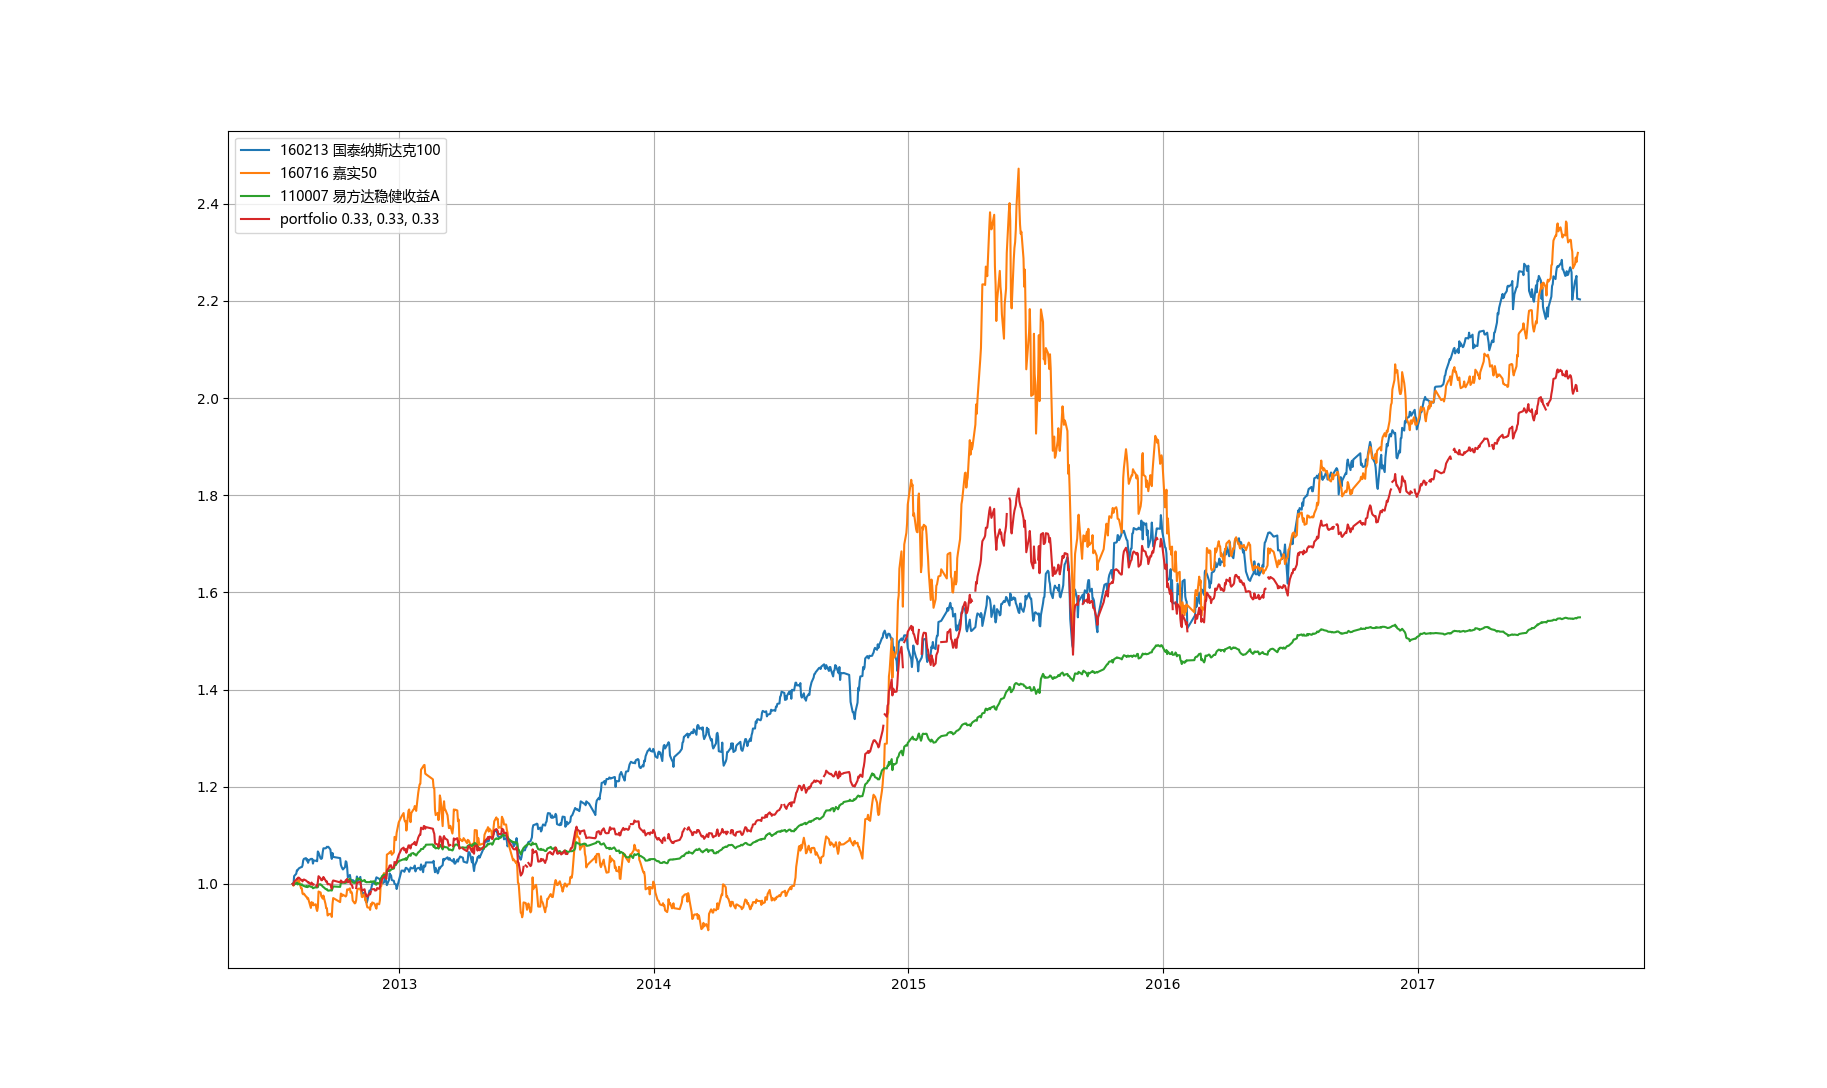
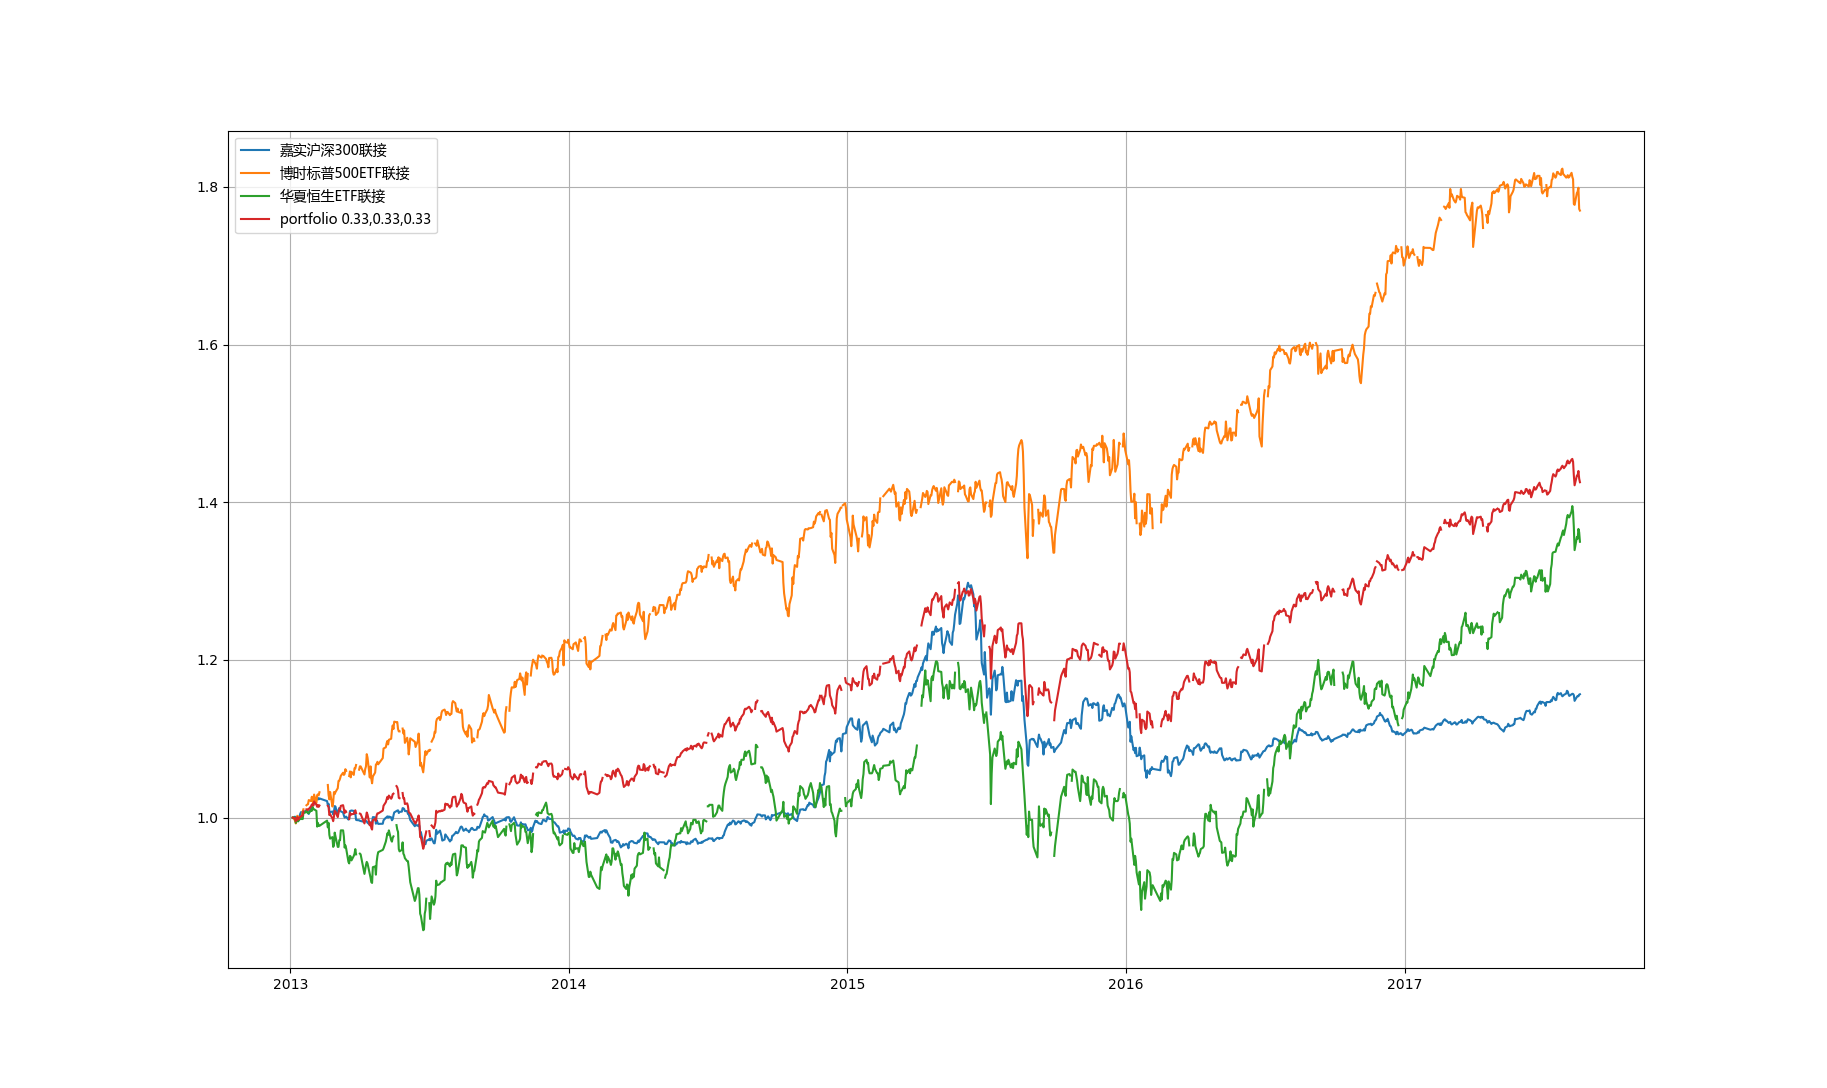
add support for command line arguments

diff --git a/funddata.py b/funddata.py
@@ -12,54 +12,70 @@ import numpy as np
 import pandas as pd
 import matplotlib.pyplot as plt
 import matplotlib.font_manager as fm
+import sys
 
-# 开始日期
-startdate = '2012-08-01'
-# 结束日期
-enddate = '2017-08-31'
-# 代码列表
-codelist = ['160213', '160716', '110007']
-# 组合权重
-weightlist = [1/3, 1/3, 1/3]
+if __name__ == "__main__":
 
-urls=['http://data.funds.hexun.com/outxml/detail/openfundnetvalue.aspx?fundcode='
-      +fundcode+'&startdate='+startdate+'&enddate='+enddate
-      for fundcode in codelist]
-namelist = []
-timeserieslist = []
-
-for url in urls:
-    req = Request(url, headers={'User-Agent': 'Mozilla/5.0'})
-    data = urlopen(req).read()
-    tree = ET.fromstring(data)
-    datelist = []
-    valuelist = []
+    startdate = '2013-01-01'
+    enddate = '2017-08-18'
+    codelist = ['160706', '050025', '000071']
     
-    for child in tree:
-        if child.tag == 'Data':
-            datelist.append(datetime.strptime(child.find('fld_enddate').text, '%Y-%m-%d'))
-            valuelist.append(float(child.find('fld_netvalue').text))
+    # read command line arguments
+    if len(sys.argv) > 1:
+        startdate = sys.argv[1]   
+    if len(sys.argv) > 2:
+        enddate = sys.argv[2]
+    if len(sys.argv) > 3:
+        del codelist[:]
+        codelist = sys.argv[3:]
+
+    # portfolio weights
+    weightlist = [1/len(codelist) for i in codelist]
     
-    valuelist = [i/valuelist[-1] for i in reversed(valuelist)]
-    datelist = list(reversed(datelist))
-    codename = tree.find('fundcode').text + ' ' + tree.find('fundname').text
-    namelist.append(codename)
-    print(codename, "{:.2f}".format(valuelist[-1]))
-    x = np.array(datelist)
-    y = np.array(valuelist)
-    ts = pd.Series(y, index=x, name=codename)
-    timeserieslist.append(ts)
-    plt.plot(x, y)
-
-df = pd.concat(timeserieslist, axis=1)
-for i in range(len(weightlist)):
-    df[namelist[i]] = df[namelist[i]] * weightlist[i]
-
-portfolioname = 'portfolio'
-df[portfolioname] = df.sum(axis=1, skipna=False)
-plt.plot(df[portfolioname])
-myfont = fm.FontProperties(fname='C:/Windows/Fonts/msyh.ttc')
-namelist.append(portfolioname+' '+', '.join(["{:.2f}".format(i) for i in weightlist]))
-plt.legend(namelist, prop=myfont)
-plt.grid()
-plt.show()
+    print(startdate, enddate, codelist)
+    
+    urls = ['http://data.funds.hexun.com/outxml/detail/openfundnetvalue.aspx?fundcode='
+          +fundcode+'&startdate='+startdate+'&enddate='+enddate
+          for fundcode in codelist]
+    namelist = []
+    timeserieslist = []
+    
+    for url in urls:
+        req = Request(url, headers={'User-Agent': 'Mozilla/5.0'})
+        data = urlopen(req).read()
+        tree = ET.fromstring(data)
+        datelist = []
+        valuelist = []
+        
+        for child in tree:
+            if child.tag == 'Data':
+                datelist.append(datetime.strptime(child.find('fld_enddate').text, '%Y-%m-%d'))
+                valuelist.append(float(child.find('fld_netvalue').text))
+        
+        valuelist = [i/valuelist[-1] for i in reversed(valuelist)]
+        datelist = list(reversed(datelist))
+        fundname = tree.find('fundname').text
+        namelist.append(fundname)
+        x = np.array(datelist)
+        y = np.array(valuelist)
+        ts = pd.Series(y, index=x, name=fundname)
+        timeserieslist.append(ts)
+    
+    df = pd.concat(timeserieslist, axis=1)
+    df2 = df.copy()
+    for i in range(len(weightlist)):
+        df2[namelist[i]] = df2[namelist[i]] * weightlist[i]
+    
+    portfolioname = 'portfolio'
+    df[portfolioname] = df2.sum(axis=1, skipna=False)
+    std = df.std()
+    retstd = (df.iloc[[-1]] - 1) / std
+    datatable = df.iloc[[0,-1]].append(std.rename('standard deviation')).append(retstd.iloc[0].rename('return/standard deviation'))
+    print(datatable)
+    
+    plt.plot(df)
+    myfont = fm.FontProperties(fname='C:/Windows/Fonts/msyh.ttc')
+    namelist.append(portfolioname+' '+','.join(["{:.2f}".format(i) for i in weightlist]))
+    plt.legend(namelist, prop=myfont)
+    plt.grid()
+    plt.show()
